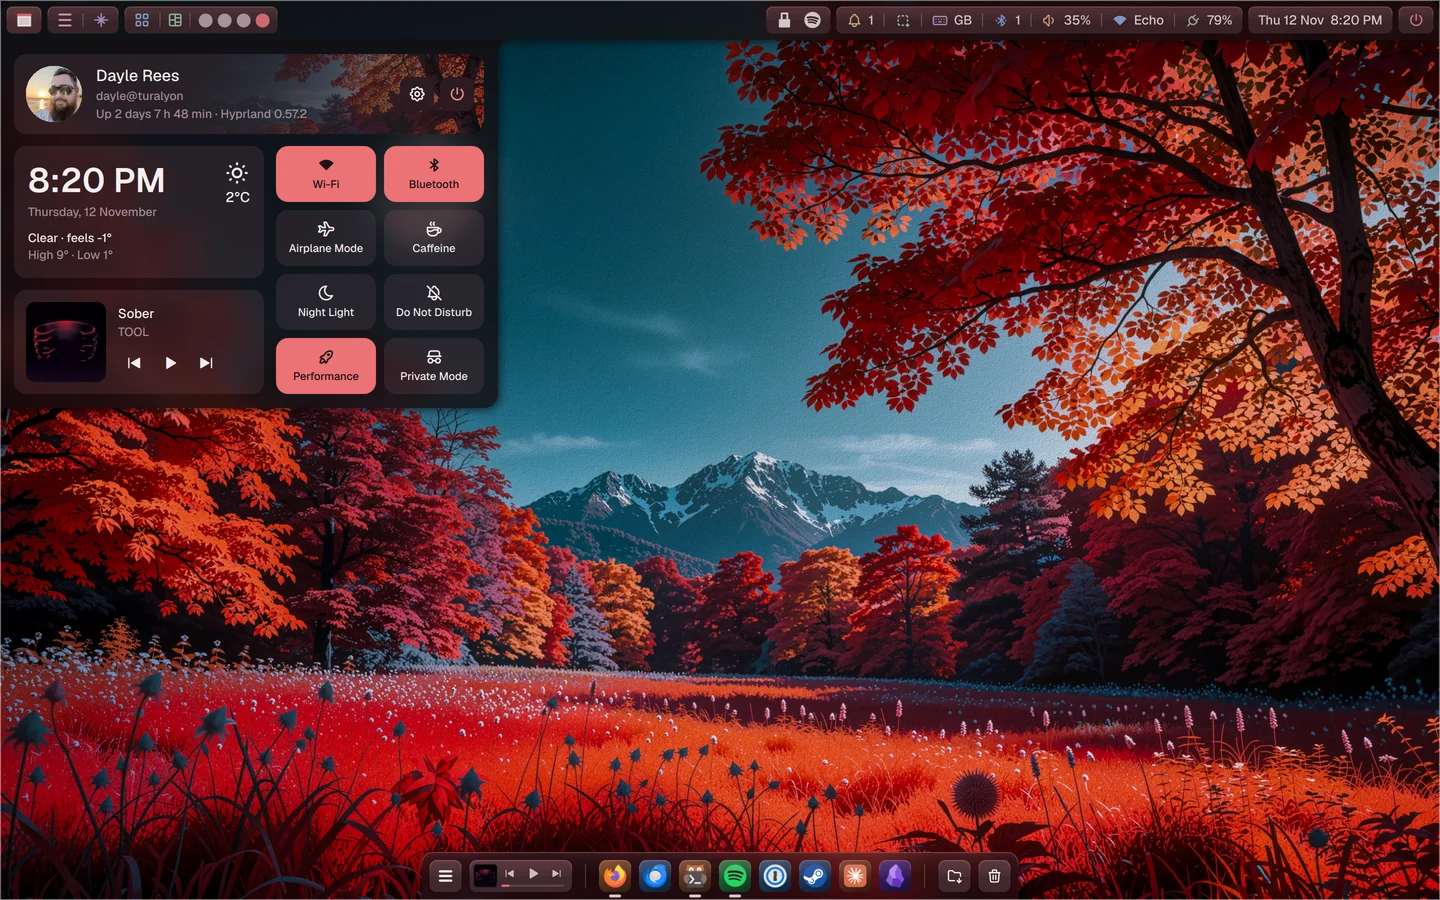
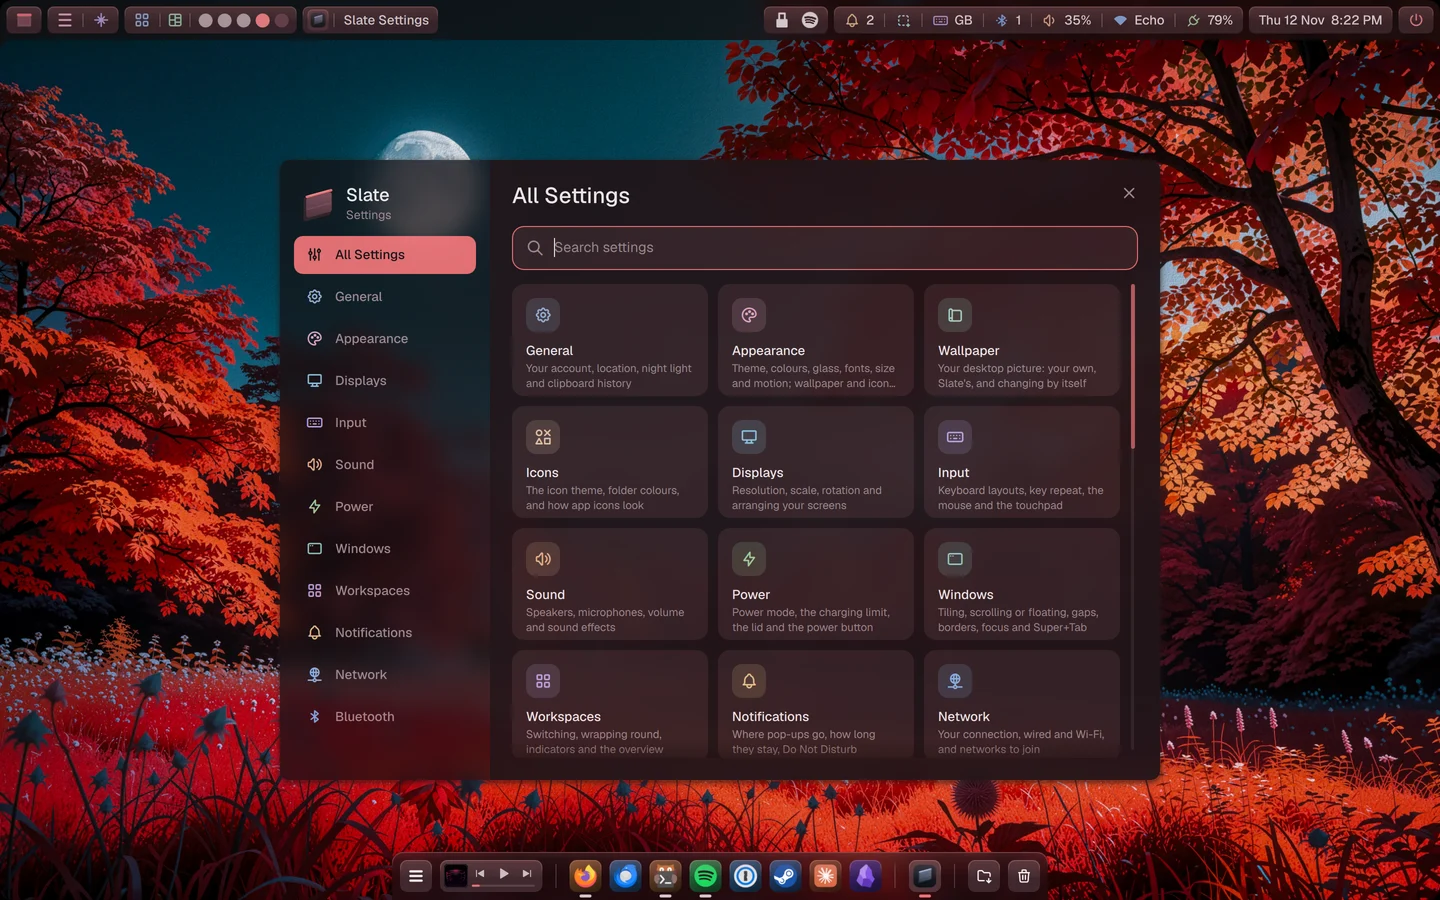
docs(site): show Dayle's desktop with Settings open

diff --git a/site/index.html b/site/index.html
@@ -361,9 +361,9 @@
 <section id="desktop" class="desktop">
   <h2>Dayle's current desktop</h2>
   <p class="sub">Slate as it looks on my own laptop right now, day to day: colours from an autumn
-    wallpaper, and the control centre open with what's playing.</p>
-  <figure><img class="shot-frame" src="shots/daylesdesktop.webp?v=4" width="1440" height="900" loading="lazy"
-    alt="Slate on Dayle's laptop: the menu bar, dock and control centre in reds and corals taken from a wallpaper of autumn trees and a snowy mountain, with Night Light, Caffeine and the rest of the quick switches, the weather and what's playing"></figure>
+    wallpaper, and Settings open on All Settings.</p>
+  <figure><img class="shot-frame" src="shots/daylesdesktop.webp?v=5" width="1440" height="900" loading="lazy"
+    alt="Slate on Dayle's laptop: the menu bar, dock and Slate Settings in reds and corals taken from a wallpaper of autumn trees under a rising moon, with Settings open on All Settings"></figure>
 </section>
 
 <section class="more">
